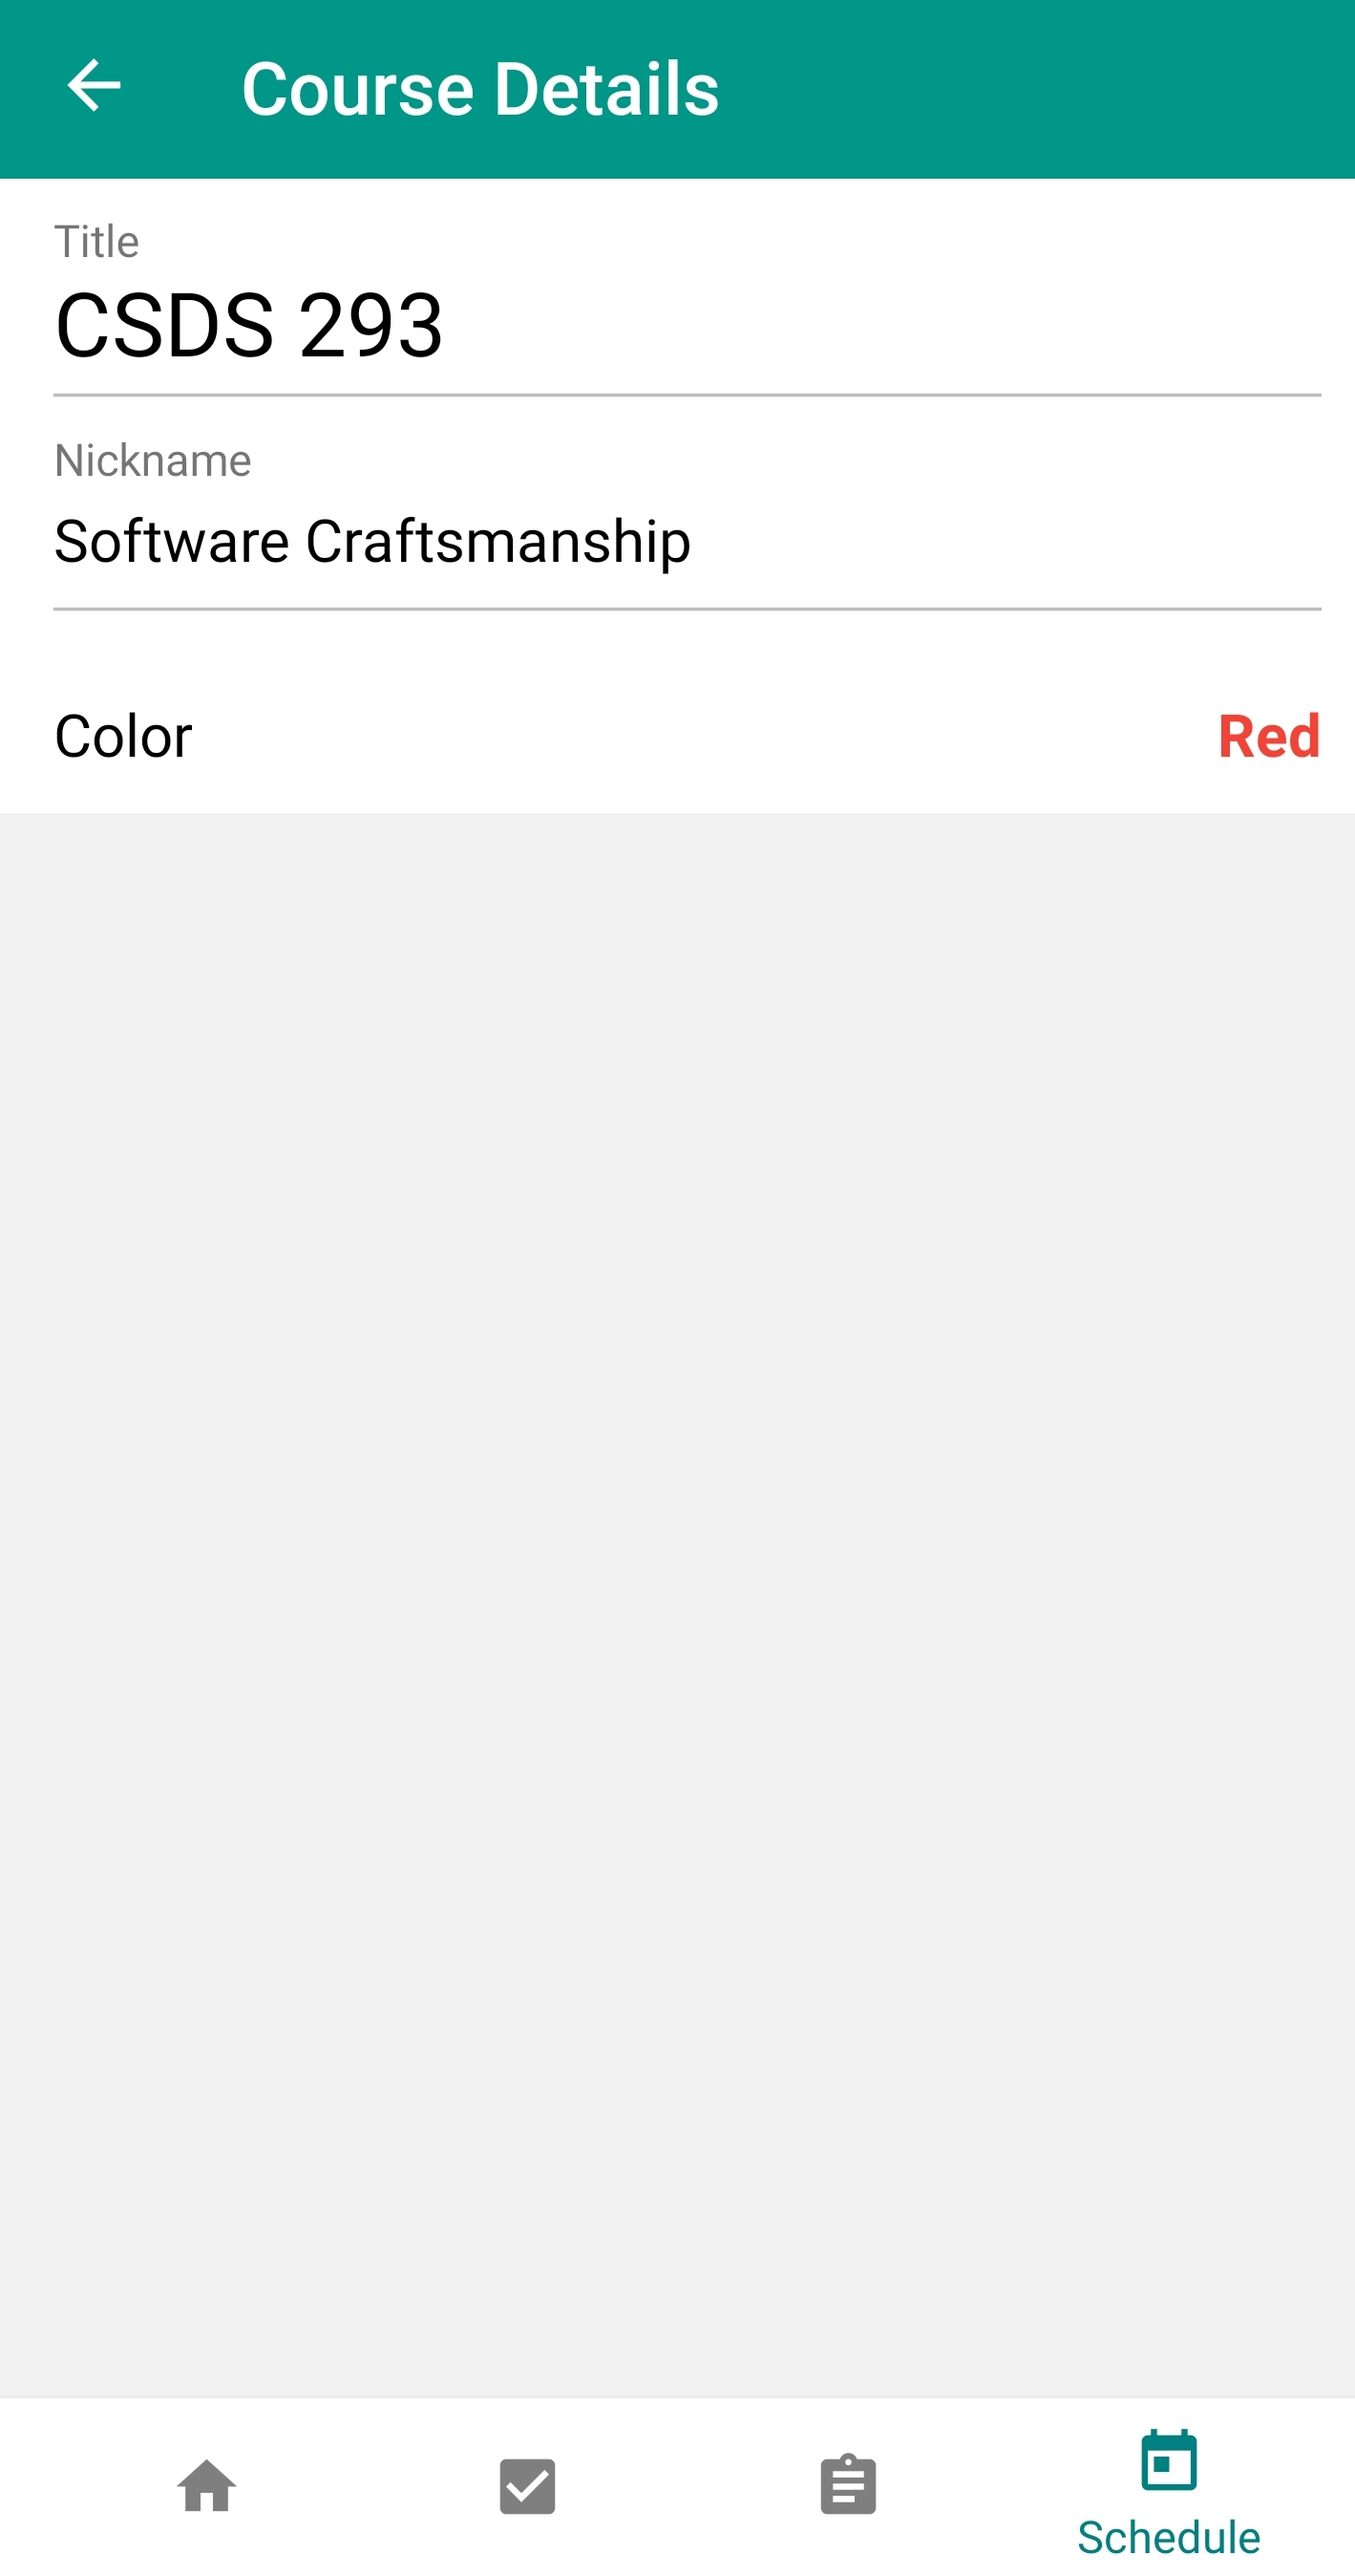
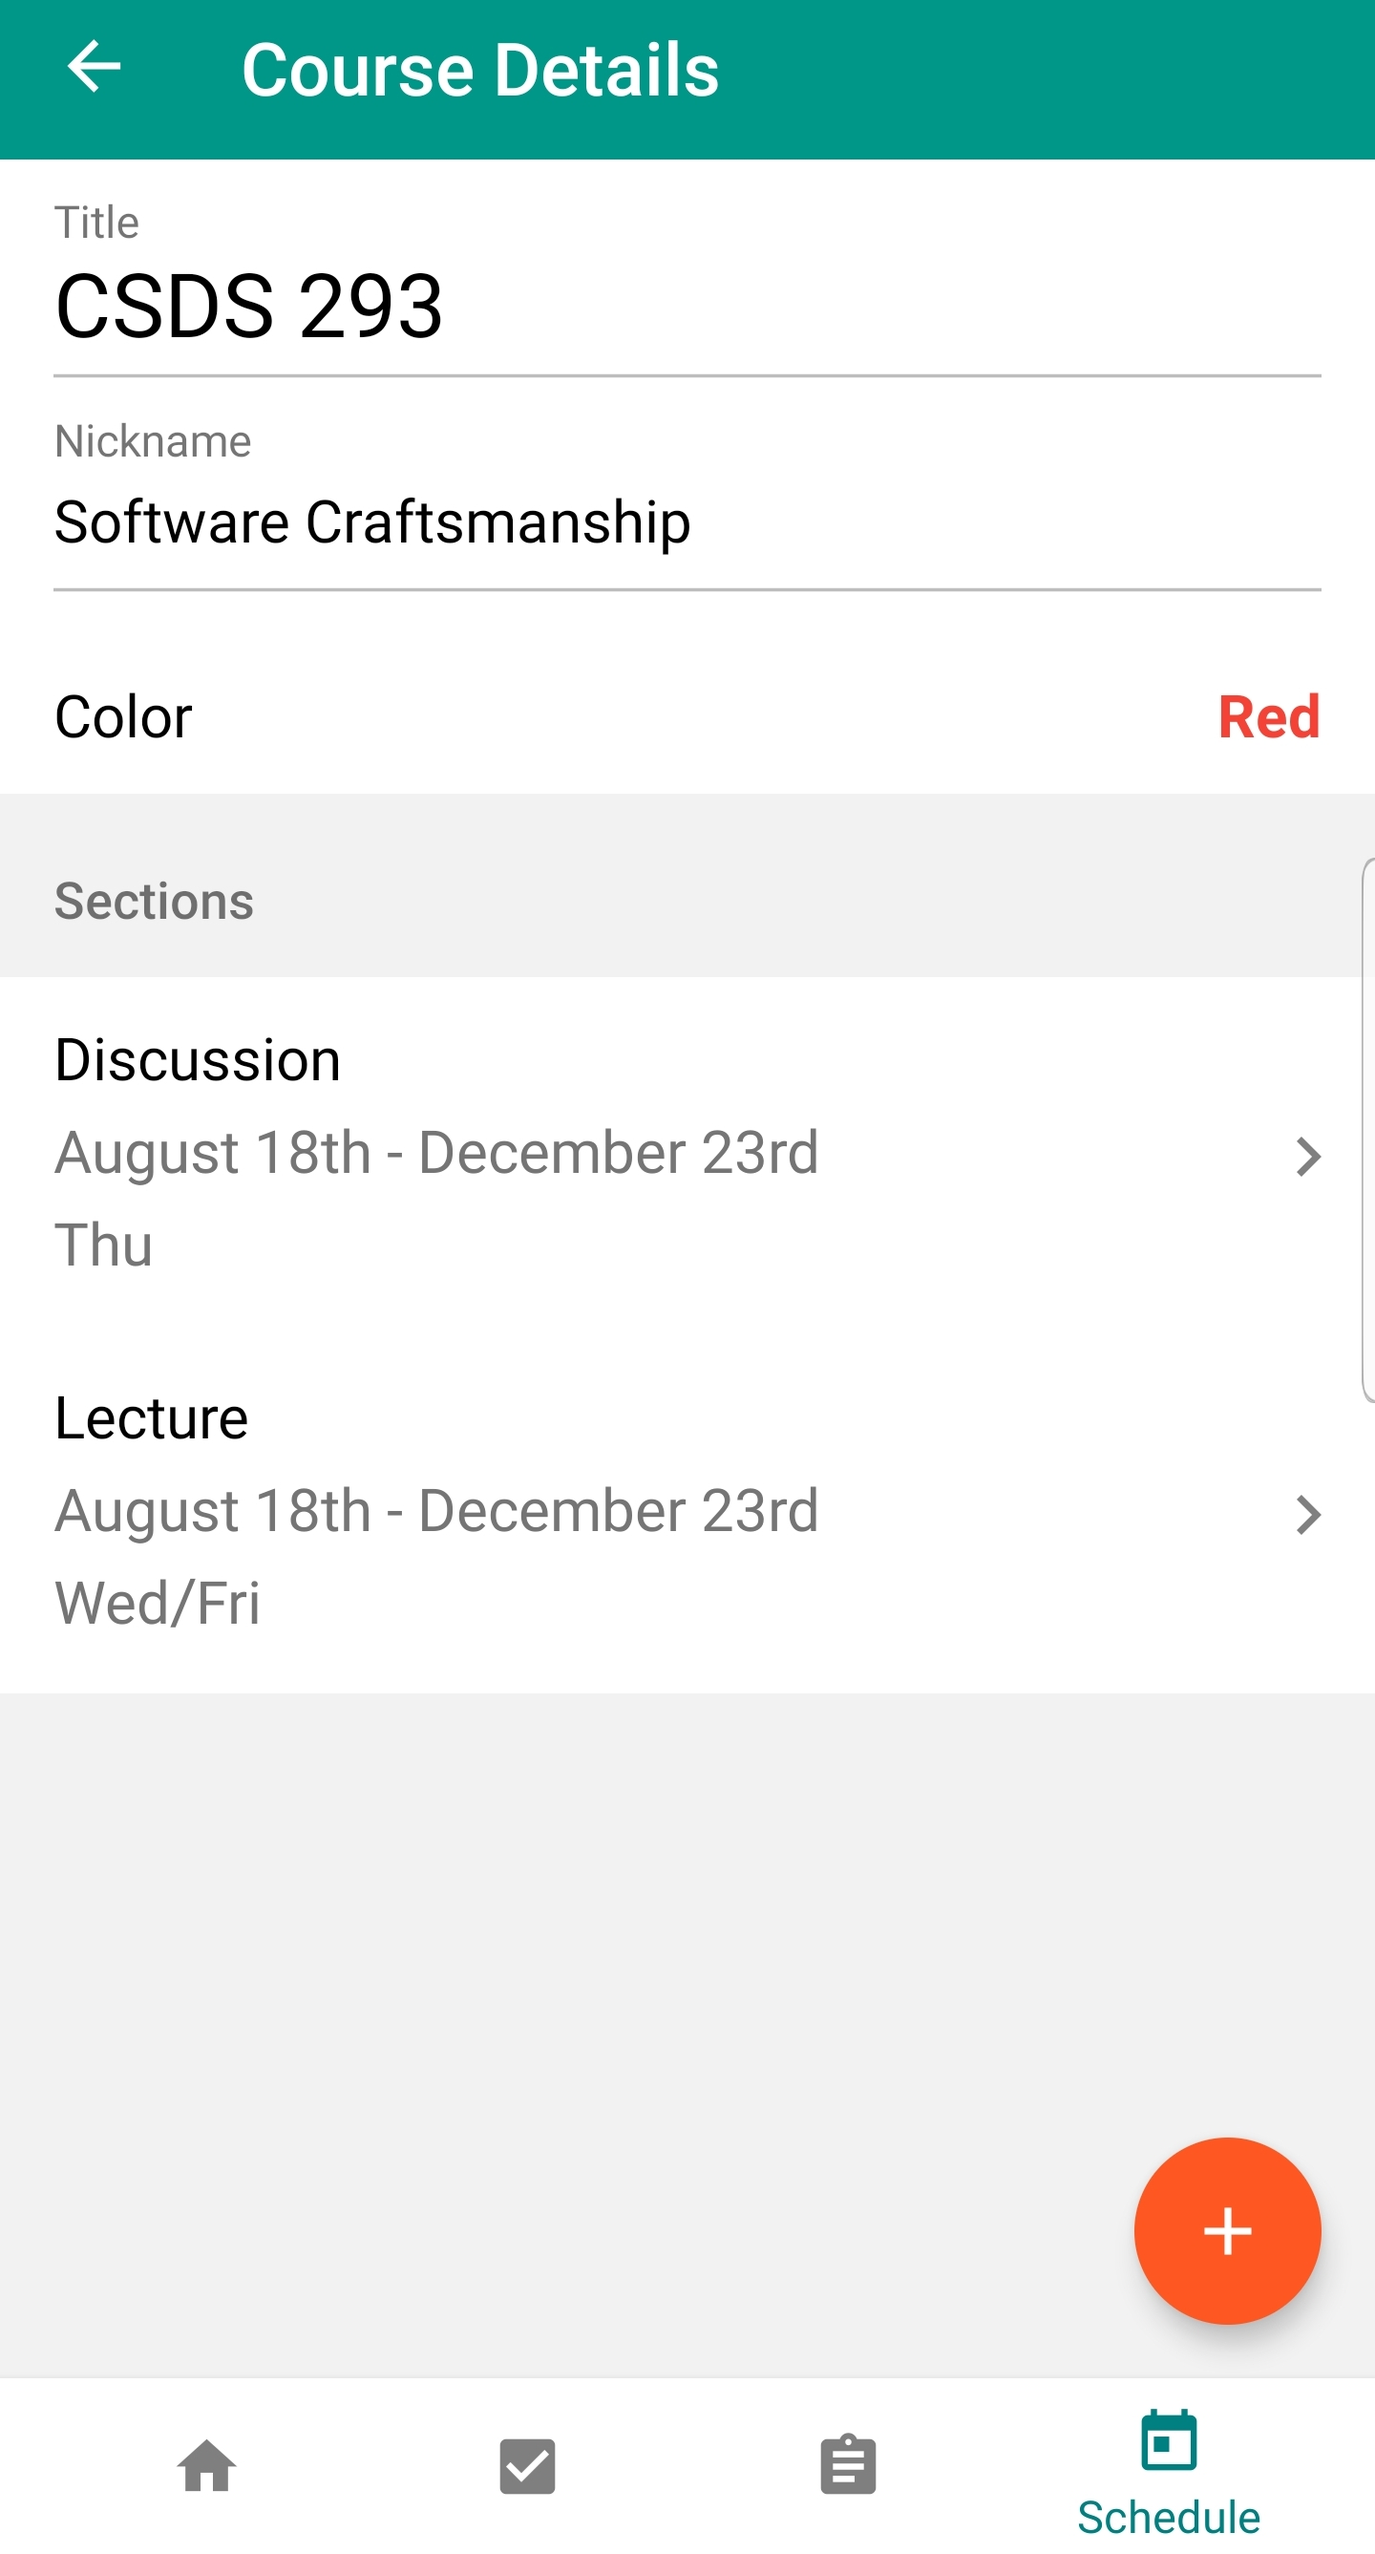
Half updating the tutorial for Adam

diff --git a/services/mobile-frontend/src/components/tutorial/scheduler-tutorial.js b/services/mobile-frontend/src/components/tutorial/scheduler-tutorial.js
@@ -12,7 +12,7 @@ class SchedulerTutorial extends React.Component {
             <SafeAreaView style={{ flex: 1, justifyContent: 'center', alignItems: 'center' }}>
                 <ScrollView
                     contentContainerStyle={{
-                        height: Dimensions.get('screen').height * 3,
+                        height: Dimensions.get('screen').height * 4,
                         width: Dimensions.get('screen').width,
                         justifyContent: 'center',
                         alignItems: 'center',
@@ -74,6 +74,26 @@ class SchedulerTutorial extends React.Component {
                         <Typography style={{ textAlign: 'center' }} variant="body">
                             {'\n'}In the course editor, you can change the course name, course nickname, and color. You
                             can also edit and add sections for the course.{'\n'}
+                        </Typography>
+                    </View>
+                    <View
+                        style={{
+                            width: Dimensions.get('screen').width * scale,
+                            height: Dimensions.get('screen').height * scale,
+                        }}
+                    >
+                        <Image
+                            style={{
+                                width: Dimensions.get('screen').width * scale,
+                                height: Dimensions.get('screen').height * scale,
+                            }}
+                            source={require('./images/section_editor.jpg')}
+                        />
+                    </View>
+                    <View>
+                        <Typography style={{ textAlign: 'center' }} variant="body">
+                            {'\n'}In the section editor, you can have recurring sections (those appear on the overview
+                            page).{'\n'}
                         </Typography>
                     </View>
                     <View>

diff --git a/services/mobile-frontend/src/globals/navigation-hierarchy.js b/services/mobile-frontend/src/globals/navigation-hierarchy.js
@@ -96,23 +96,11 @@ class NavigationHierarchy extends React.Component {
                         <RootStack.Screen name="Signup" component={SignUpForm} />
                     </React.Fragment>
                 )}
-                <RootStack.Screen name="Home" component={Home} />
-                <RootStack.Screen name="Signup" component={SignUpForm} />
-                <RootStack.Screen name="Root" component={this.tabs} />
-                <RootStack.Screen name="New Task" component={NewTaskModalStack} />
-                <RootStack.Screen name="New Assignment" component={NewAssignmentModalStack} />
-                <RootStack.Screen name="New Term" component={NewTermModal} />
-                <RootStack.Screen name="New Course" component={NewCourseModal} />
-                <RootStack.Screen name="New Holiday" component={NewHolidayModal} />
-                <RootStack.Screen name="Signup" component={SignUpForm} />
                 <RootStack.Screen name="Tutorial Root" component={LoginTutorial} />
                 <RootStack.Screen name="Overview Tutorial" component={OverviewTutorial} />
                 <RootStack.Screen name="Scheduler Tutorial" component={SchedulerTutorial} />
                 <RootStack.Screen name="Assignment Tutorial" component={AssignmentTutorial} />
                 <RootStack.Screen name="Task Tutorial" component={TasksTutorial} />
-                <RootStack.Screen name="New Section" component={NewSectionModal} />
-                <RootStack.Screen name="New Reminder" component={NewReminderModal} />
-                <RootStack.Screen name="Edit Reminder" component={ReminderDisplay} />
             </RootStack.Navigator>
         );
     }

diff --git a/services/mobile-frontend/src/components/tutorial/assignment-tutorial.js b/services/mobile-frontend/src/components/tutorial/assignment-tutorial.js
@@ -40,6 +40,7 @@ class AssignmentTutorial extends React.Component {
                             {'\n'}You can find all your assignments on this screen. Toggling the past-upcoming bar at
                             the top of the screen switches from displaying previous assignments and future assignments.
                             Pressing on an existing assignment or hitting the + button brings up the assignment editor.
+                            Swiping on an assignment to the left opens an option to delete that assignment.
                             {'\n'}
                         </Typography>
                     </View>
@@ -61,7 +62,7 @@ class AssignmentTutorial extends React.Component {
                         <Typography style={{ textAlign: 'center' }} variant="body">
                             {'\n'}In the assignment editor, you can change the name of an assignment, its description,
                             give it a due date, and associate it with a course. You can add tasks associated with this
-                            assignment, which are displayed on screen.
+                            assignment, which are displayed on screen. Reminders can also be added to assignments.
                             {'\n'}
                         </Typography>
                     </View>

diff --git a/services/mobile-frontend/src/components/tasks/tasks-list.js b/services/mobile-frontend/src/components/tasks/tasks-list.js
@@ -56,9 +56,6 @@ class TasksList extends React.Component {
         const sections = getSections(tasks, this.state.showingCompletedTasks);
         const listData = sections.map(([name, tids]) => ({ title: name, data: tids }));
 
-        console.log('Rendered');
-        console.log(tasks);
-
         return (
             <ViewController
                 title="Tasks"
